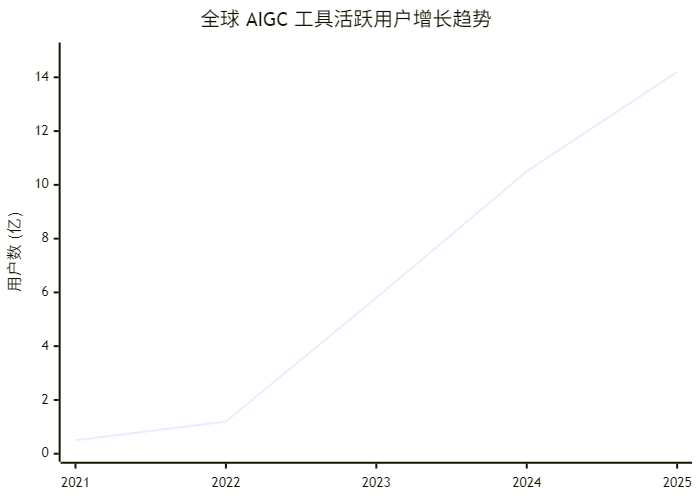
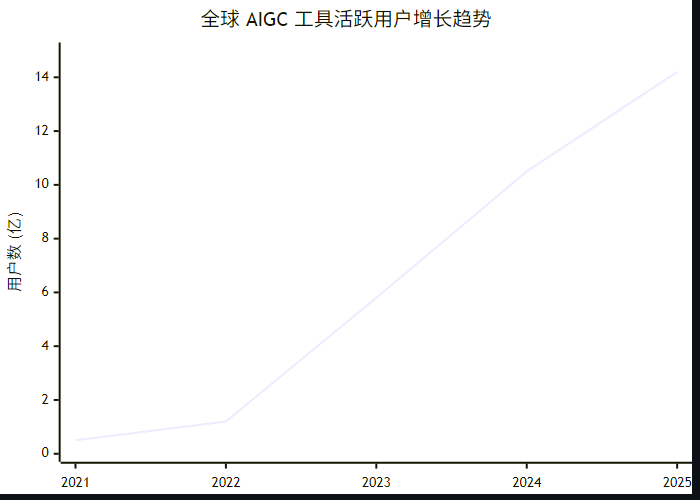
Update diagram style: Transparent borders and export

diff --git a/batch_export_charts.py b/batch_export_charts.py
@@ -59,8 +59,10 @@ for i, code in enumerate(matches):
     
     # Run mmdc
     # -p puppeteer config might be needed for some chars, but defaulting first.
-    # -i input -o output -b transparent background
-    cmd = f'cmd /c "npx -y @mermaid-js/mermaid-cli -i "{mmd_path}" -o "{png_path}" -b transparent"'
+    # -b background color (e.g. "transparent", "white", "#0d1117")
+    # Using GitHub Dark Dimmed (#0d1117) to ensure white text/lines are visible
+    bg_color = "#0d1117" 
+    cmd = f'cmd /c "npx -y @mermaid-js/mermaid-cli -i "{mmd_path}" -o "{png_path}" -b "{bg_color}""'
     
     try:
         # simple run

diff --git a/Architecture_Diagram_Boundless_Treasures.md b/Architecture_Diagram_Boundless_Treasures.md
@@ -79,15 +79,15 @@ graph LR
         D4 -->|发货| E1
     end
 
-    %% Subgraph Styling for Dark Background
-    style Input_Layer fill:none,stroke:#fff,stroke-width:2px,color:#fff
-    style Core_Layer fill:none,stroke:#fff,stroke-width:2px,color:#fff
-    style Application_Layer fill:none,stroke:#fff,stroke-width:2px,color:#fff
-    style Physical_Layer fill:none,stroke:#fff,stroke-width:2px,color:#fff
+    %% Subgraph Styling: Transparent Borders (No visible stroke)
+    style Input_Layer fill:none,stroke-width:0px,color:black
+    style Core_Layer fill:none,stroke-width:0px,color:black
+    style Application_Layer fill:none,stroke-width:0px,color:black
+    style Physical_Layer fill:none,stroke-width:0px,color:black
     
     %% Nested Subgraph Styling
-    style Voyager_Zone fill:none,stroke:#eee,stroke-width:1px,color:#eee,stroke-dasharray: 5 5
-    style Curator_Zone fill:none,stroke:#eee,stroke-width:1px,color:#eee,stroke-dasharray: 5 5
+    style Voyager_Zone fill:none,stroke-width:0px,color:black
+    style Curator_Zone fill:none,stroke-width:0px,color:black
 
 
 ```
